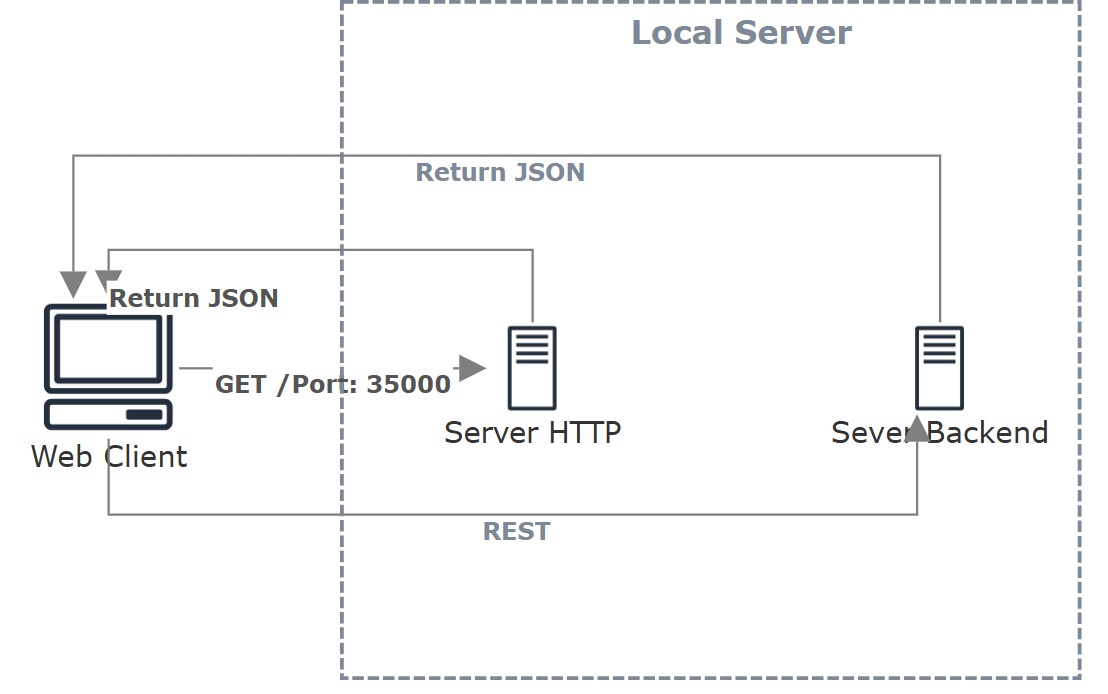
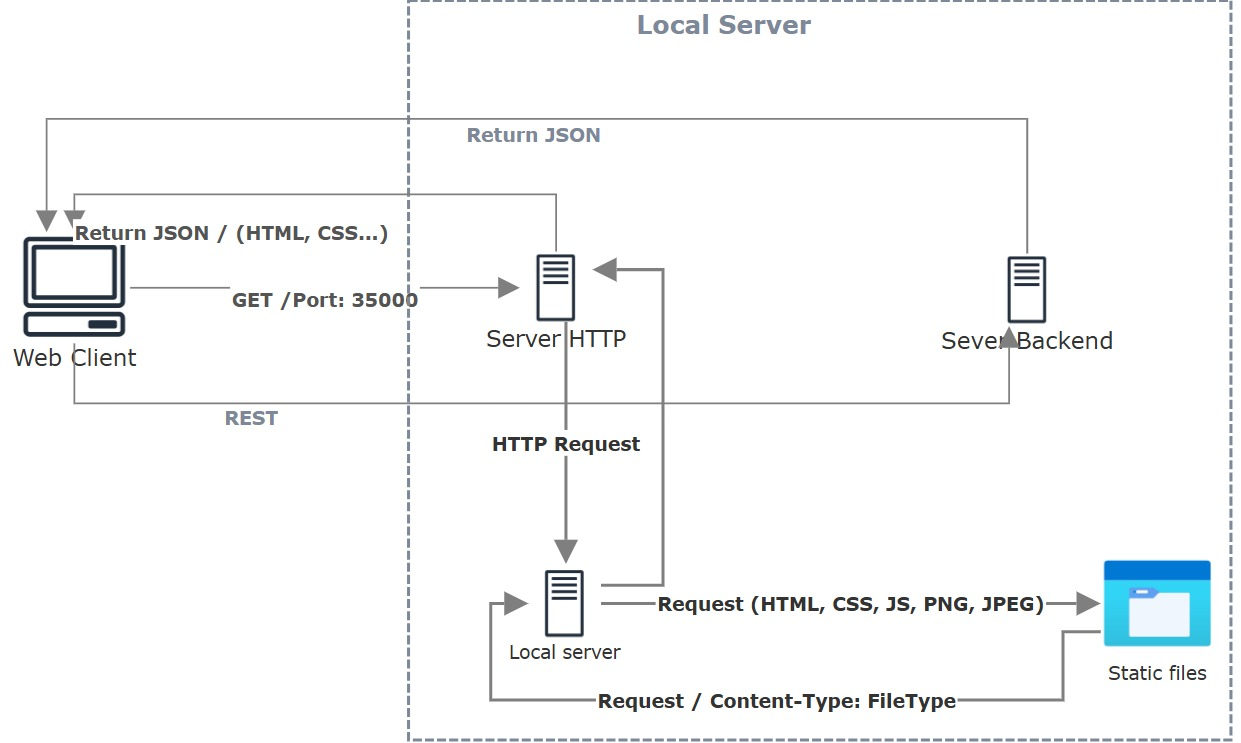
Agregue la arquitectura del proyecto

Changed region(s): [[0.0, 0.0, 1.0, 0.9986], [0.7978, 0.1513, 0.8285, 0.1816], [0.0307, 0.1513, 0.0614, 0.1816]]

diff --git a/README.md b/README.md
@@ -15,6 +15,13 @@ Como arquitectura tenemos:
 
 ![image1.jpeg](src%2Fmain%2Fresources%2Fimage1.jpeg)
 
+Explicación de arquitectura: 
+
+Este diagrama representa una arquitectura de sistema distribuido que involucra un cliente web, un servidor HTTP y un servidor backend, todos comunicándose a través de una red local. El cliente web realiza solicitudes al servidor HTTP, quien a su vez puede solicitar datos JSON al servidor backend. Además, el servidor HTTP sirve archivos estáticos (HTML, CSS, JS, PNG, JPEG) directamente al cliente.
+En el diagrama se establece el puerto 35000 utilizado para la comunicación y la especificación de la ruta GET. El Local Server indica que todos los componentes residen en el mismo entorno local.
+
+Desarrollo del lab:
+
 1. GET Static Method for REST Services:
    Implement a get() method that allows developers to define REST services using lambda functions.
    Example Usage:
@@ -122,6 +129,7 @@ O de igual forma en el ID que deseemos.
 Así se vera:
 
 ![image27.jpeg](src/main/resources/image27.jpeg)
+![image31.jpeg](src/main/resources/image31.jpeg)
 
 ### Desglose en pruebas de extremo a extremo
 
@@ -185,6 +193,10 @@ Así se vera:
 
 ![image28.jpeg](src/main/resources/image28.jpeg)
 ![image29.jpeg](src/main/resources/image29.jpeg)
+
+Es importante aclarar que para obtener todas las peticiones presentadas en los ejemplos anteriores, se debe compilar la clase **WebApplication.java**, ya que es la clase principal.
+
+![image30.jpeg](src/main/resources/image30.jpeg)
 
 ## Construido con
 
